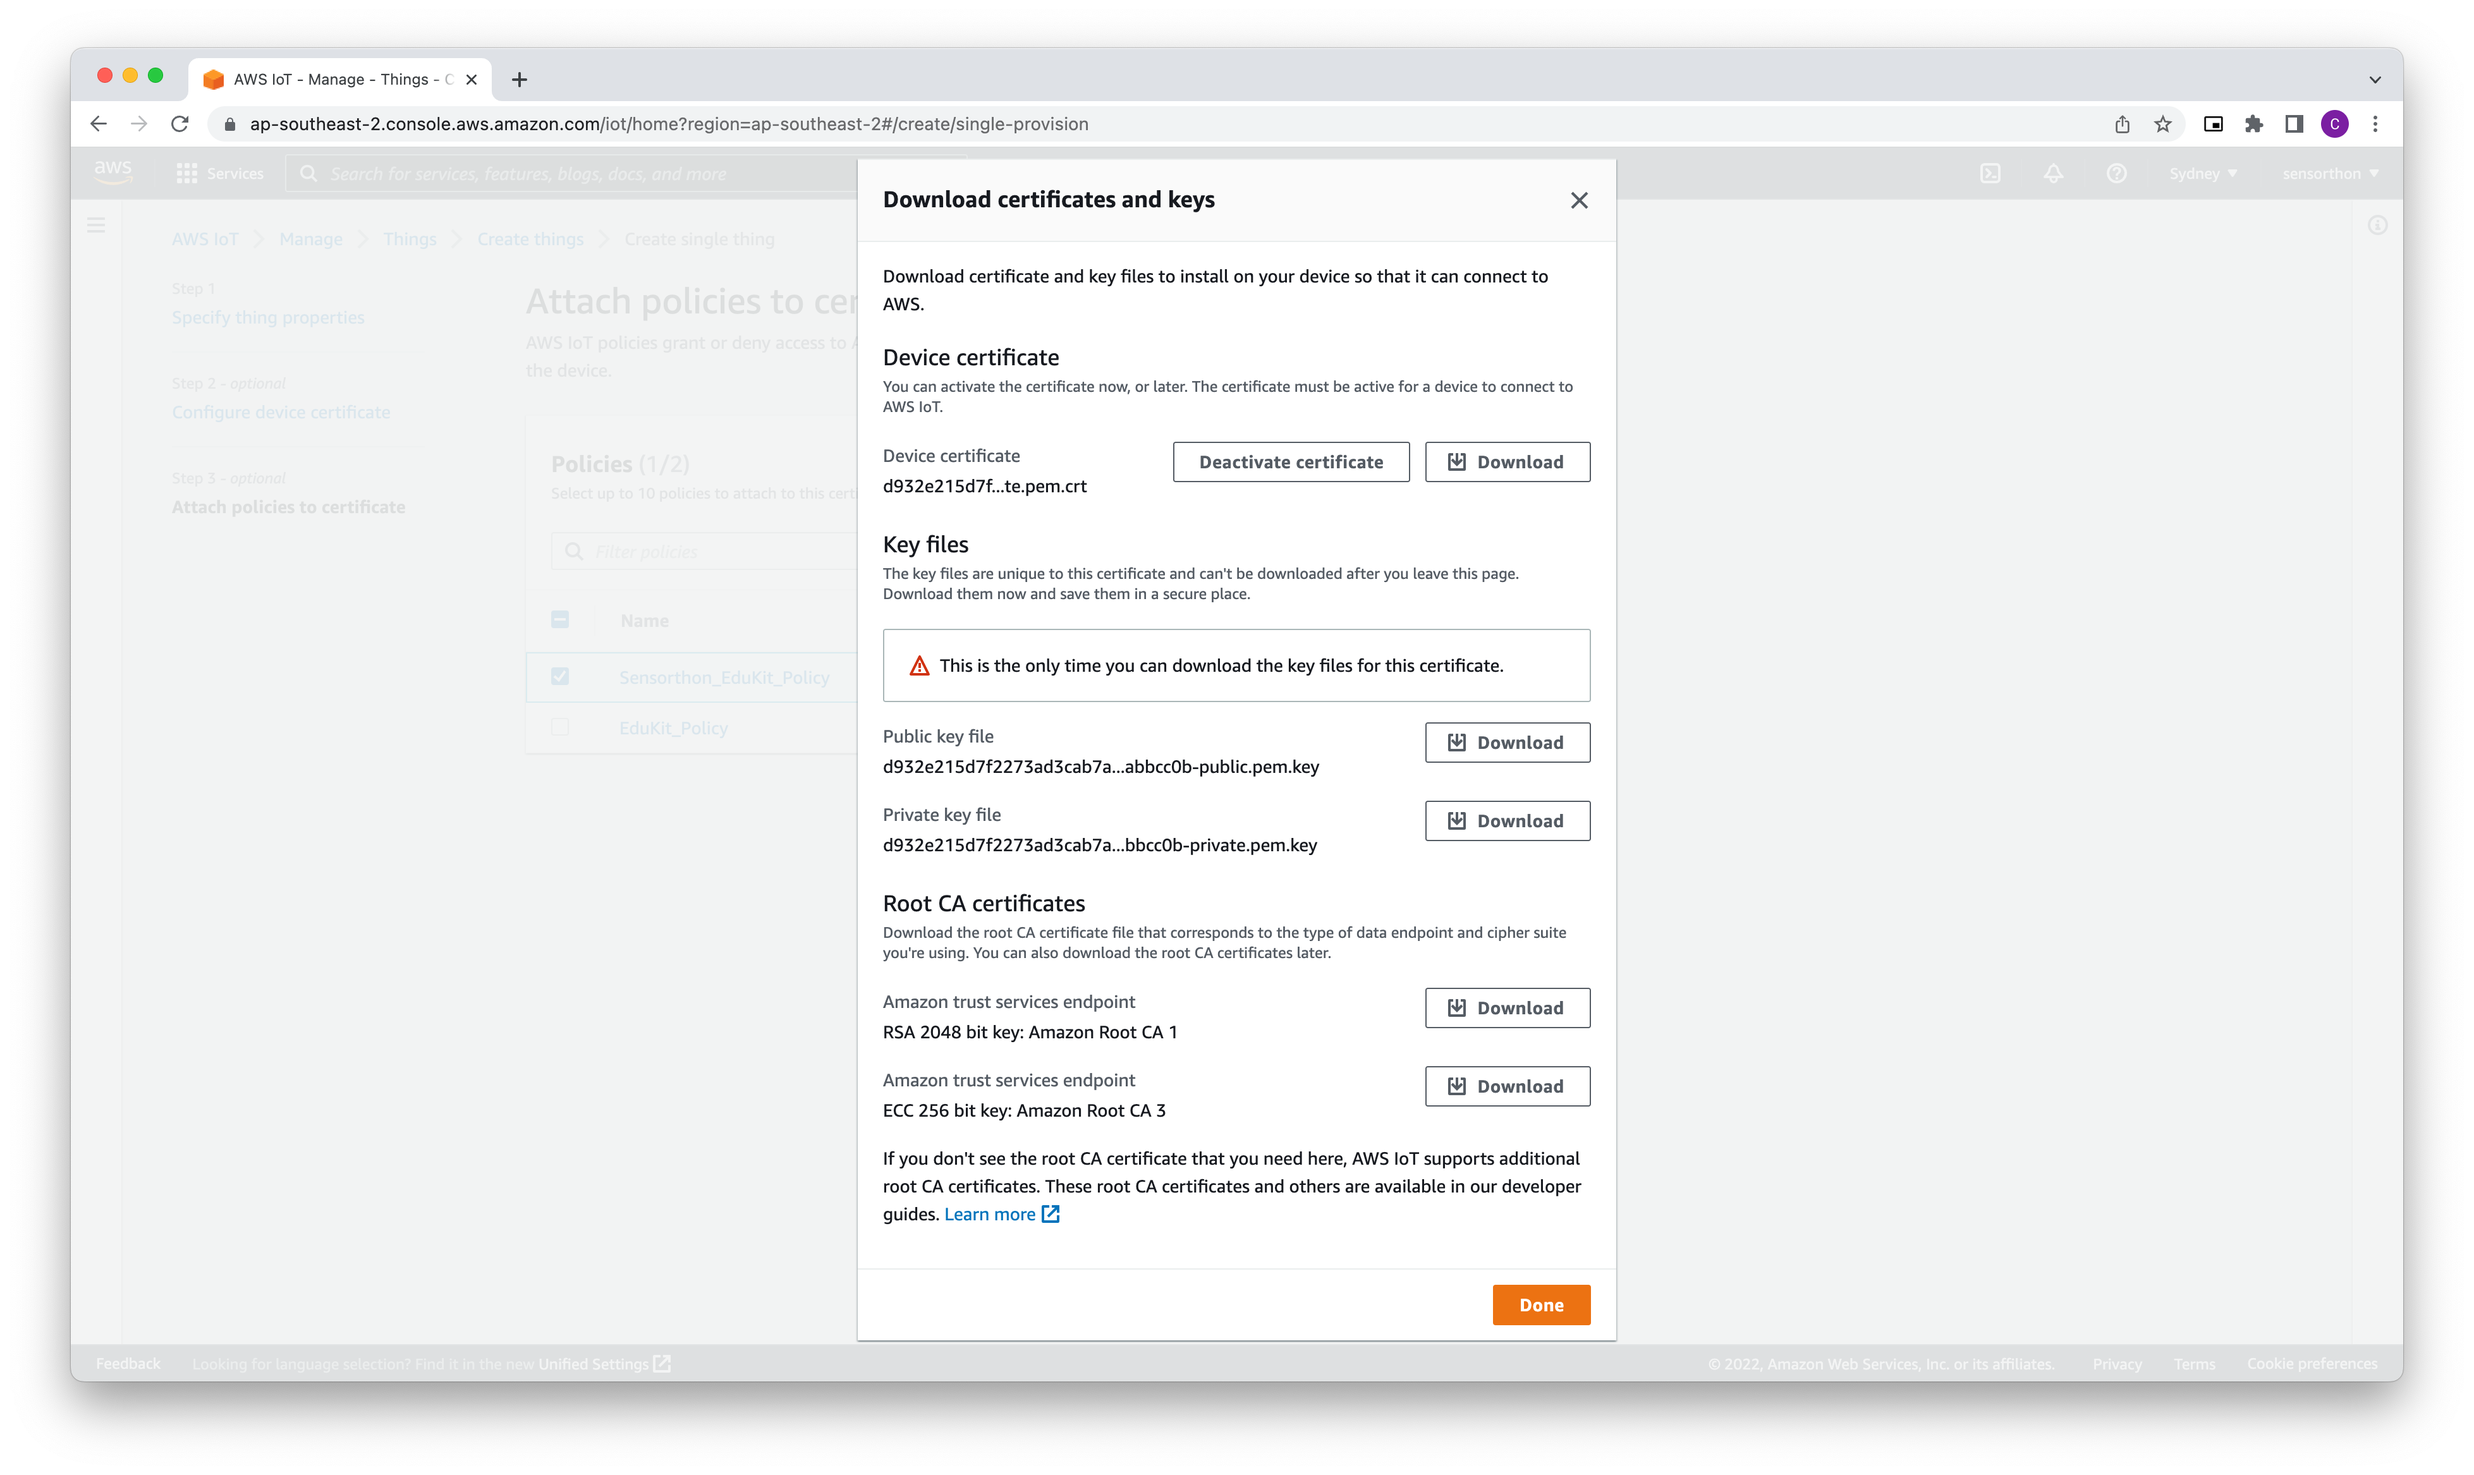
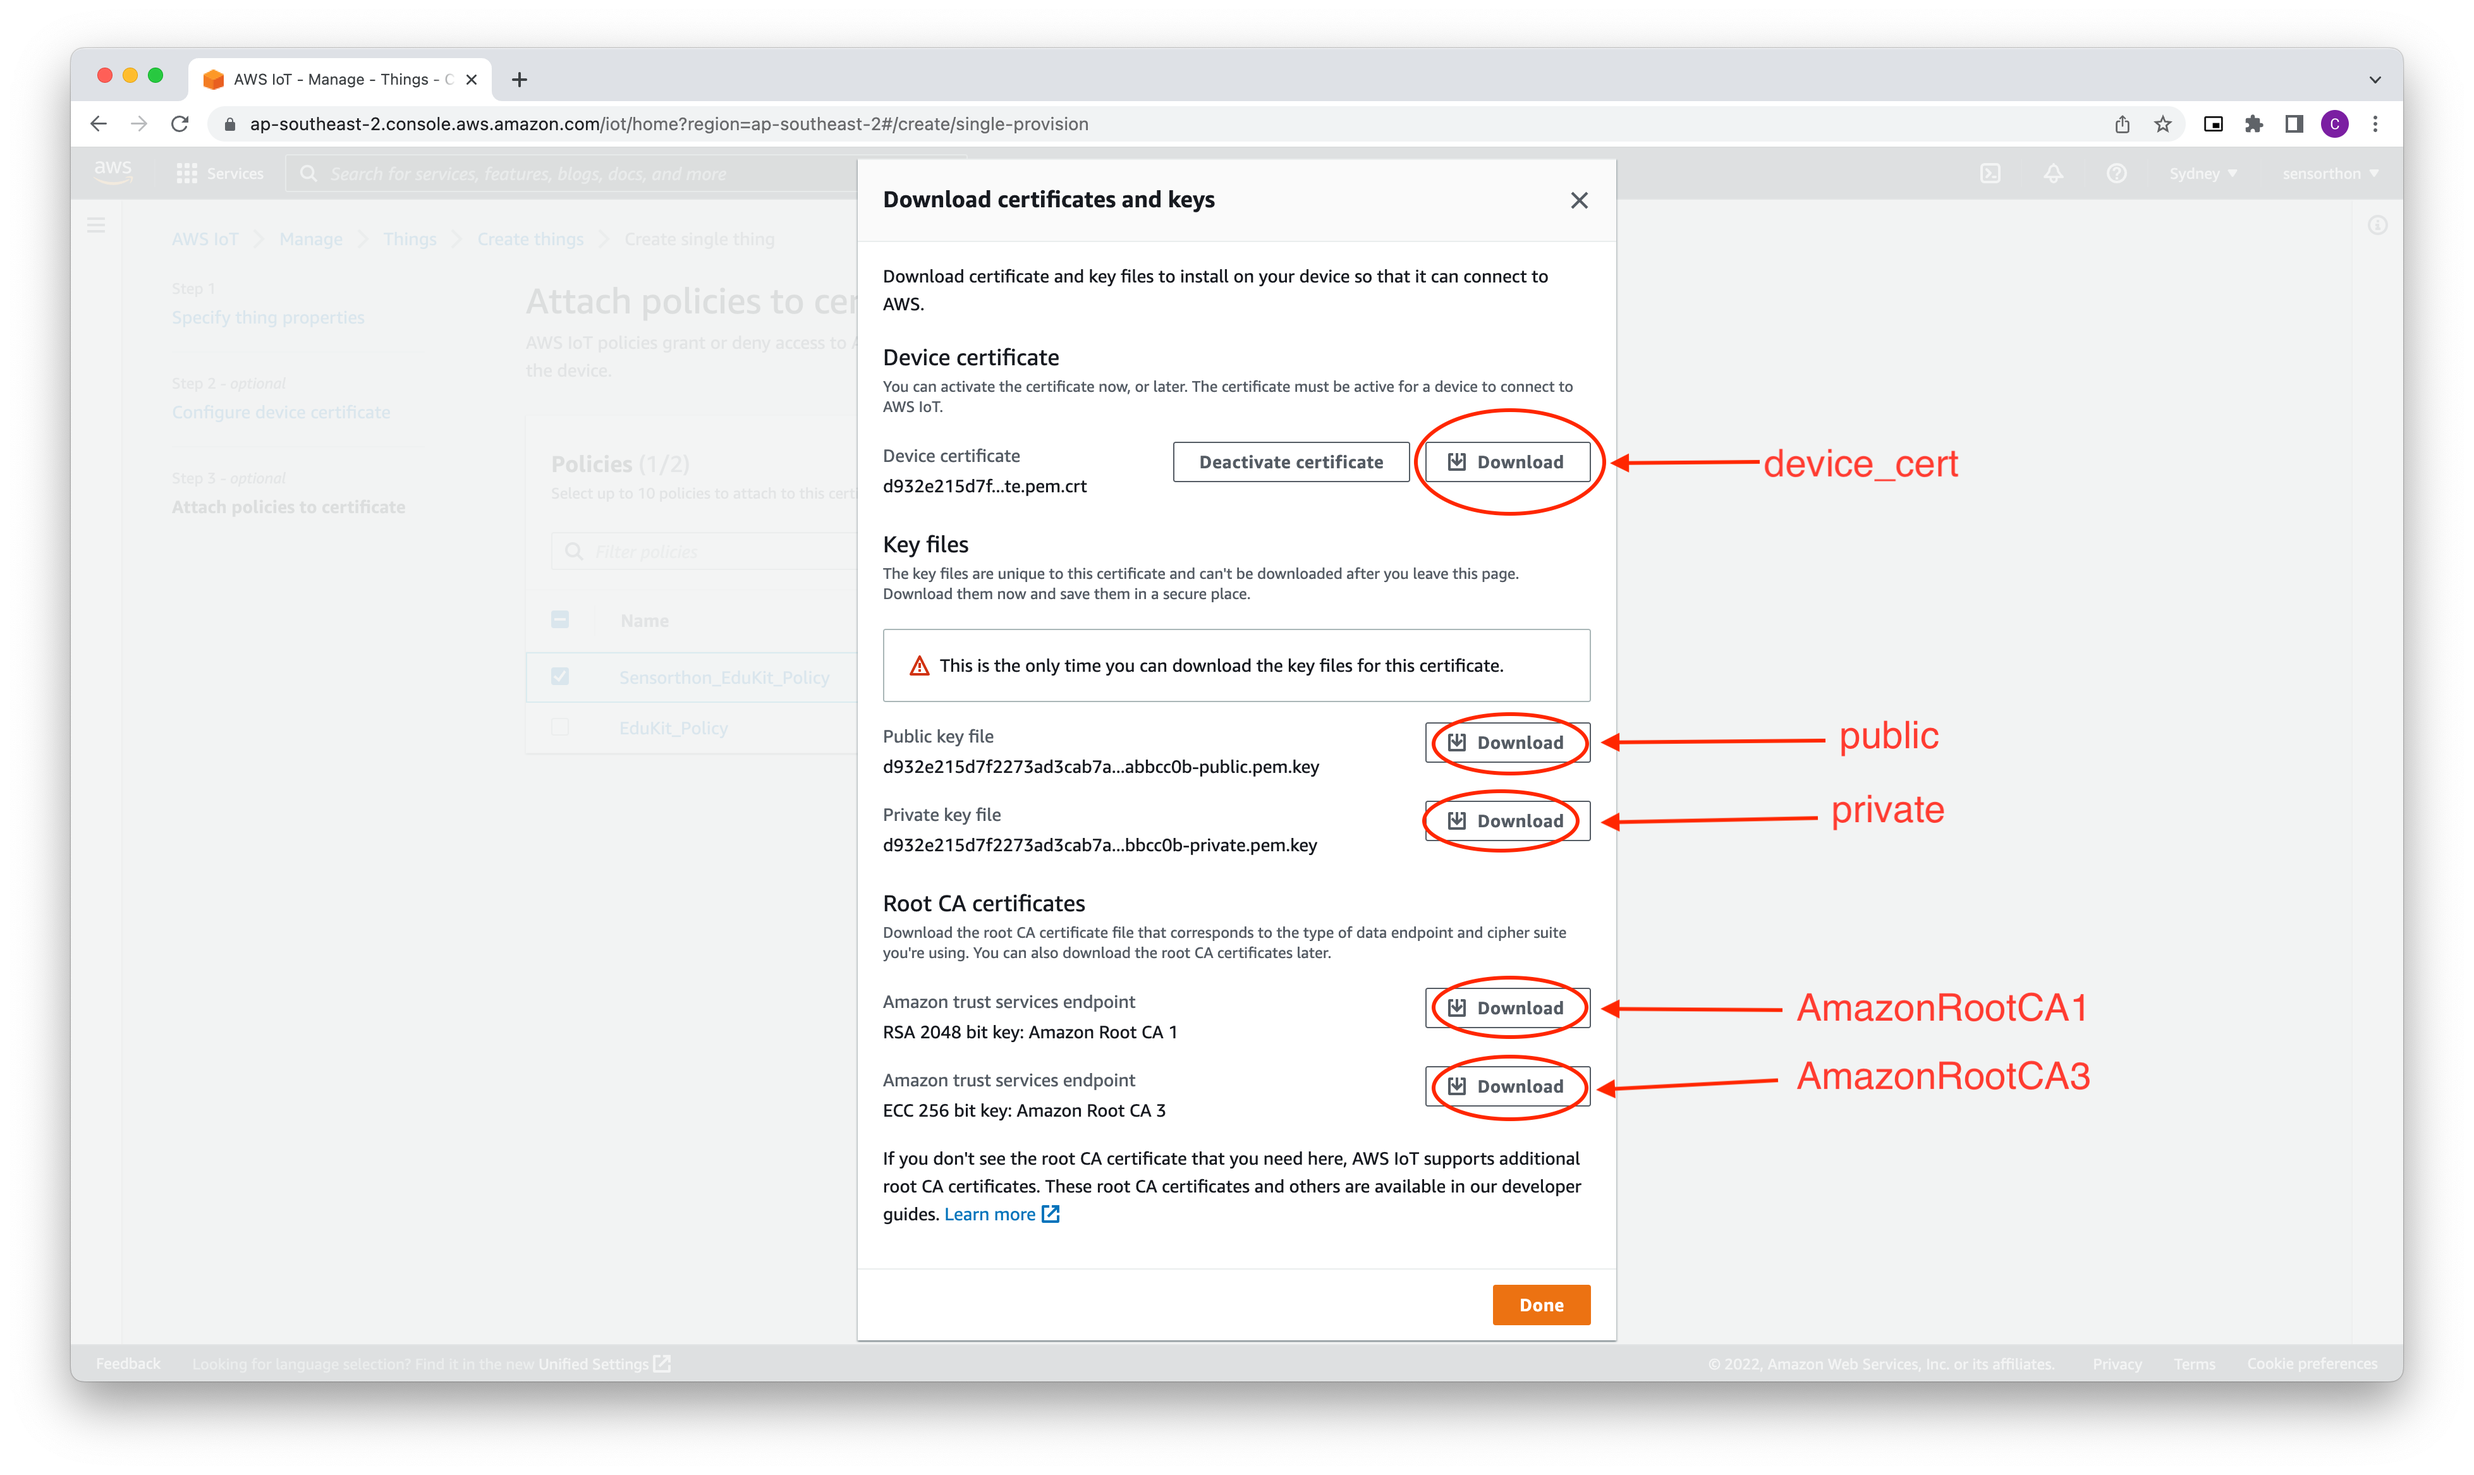
Fix certificates ss

diff --git a/Workshop/2. Device Registration/README.md b/Workshop/2. Device Registration/README.md
@@ -16,5 +16,5 @@
 10. Check the provided Sensorthon_EduKit_Policy
 11. Click "Create thing"
 ![Register_Thing_Policy](/Workshop/2.%20Device%20Registration/Register_Thing_Policy.png)
-12. Download all 5 certificates and save them in your project workspace (these will be needed later to communicate securely with AWS IoT Core)
+12. Download all 5 certificates and save them in your project workspace (these will be needed later to communicate securely with AWS IoT Core). When downloading, rename the certificates according to the naming scheme below. We will be referring to them by these names in further workshops.
 ![Certificates](/Workshop/2.%20Device%20Registration/Certificates.png)
